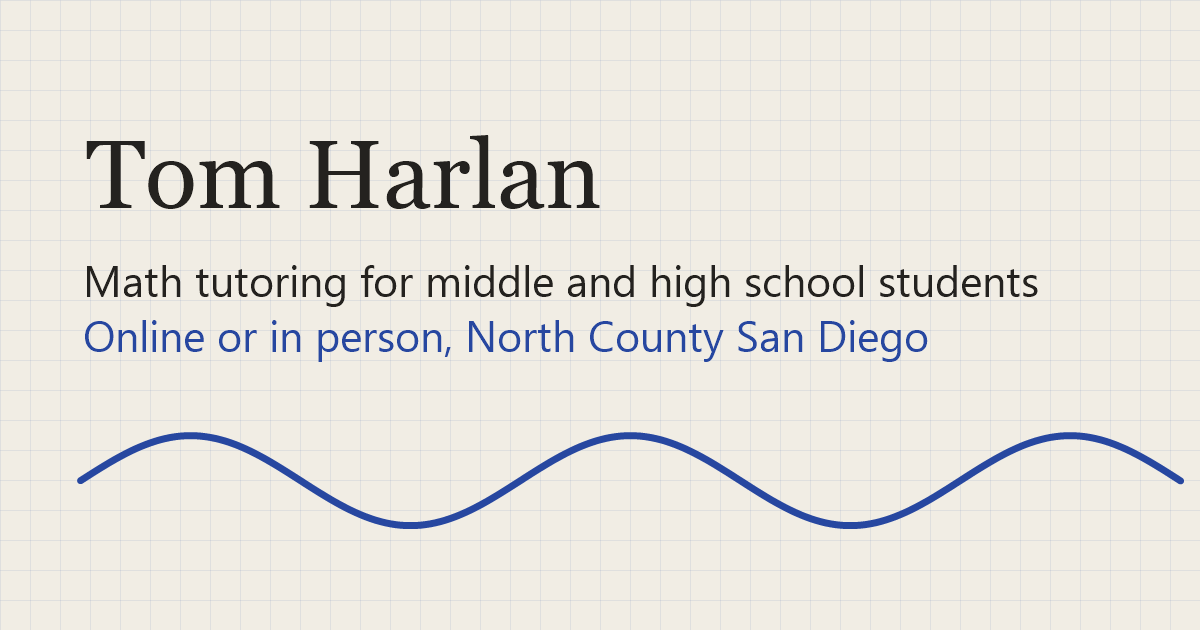
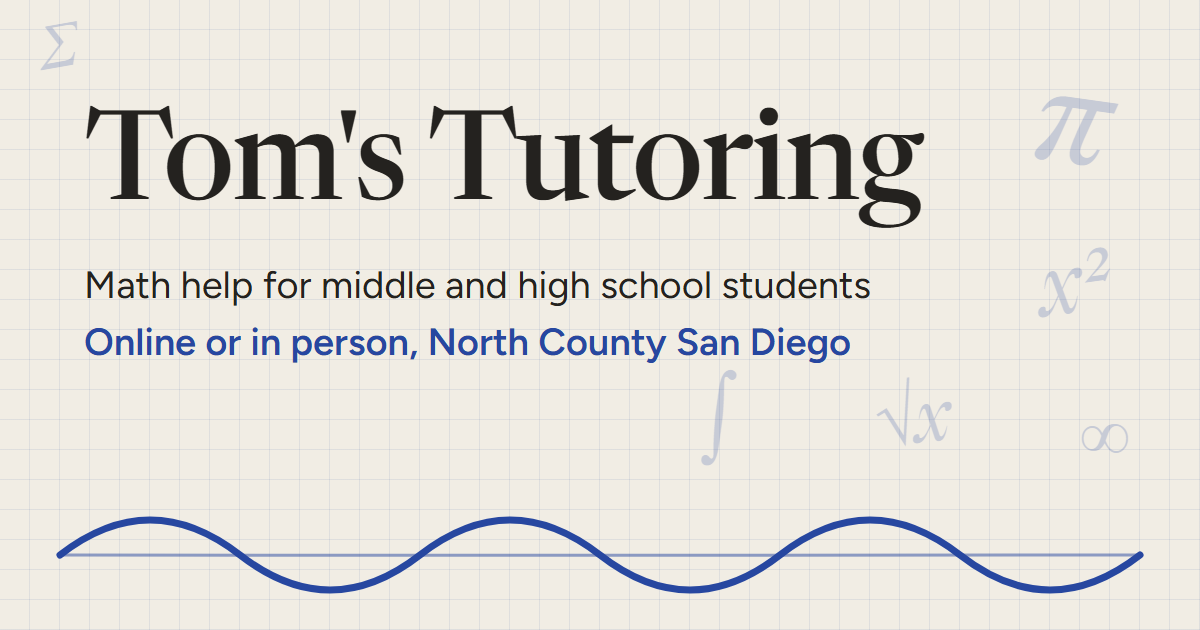
New link preview image and share titles for Tom's Tutoring

diff --git a/index.html b/index.html
@@ -8,19 +8,23 @@
   <meta name="booking-url" content="https://calendly.com/PLACEHOLDER">
 
   <!-- EDIT: page title and description (shown in search results and link previews) -->
-  <title>Tom Harlan, Math Tutor</title>
+  <title>Tom's Tutoring, Math Tutoring in North County San Diego</title>
   <meta name="description" content="One-on-one math tutoring for middle and high school students, online or in person in North County San Diego. Pre-Algebra through Calculus, plus SAT and ACT math.">
 
   <!-- Link previews (iMessage, Facebook, Slack, etc.) -->
   <!-- EDIT: og:url should be the live site address once it is published -->
   <meta property="og:type" content="website">
-  <meta property="og:title" content="Tom Harlan, Math Tutor">
-  <meta property="og:description" content="One-on-one math tutoring for middle and high school students, online or in person.">
+  <meta property="og:site_name" content="Tom's Tutoring">
+  <meta property="og:image:width" content="1200">
+  <meta property="og:image:height" content="630">
+  <meta property="og:image:alt" content="Tom's Tutoring: math help for middle and high school students in North County San Diego">
+  <meta property="og:title" content="Tom's Tutoring, Math Tutoring in North County San Diego">
+  <meta property="og:description" content="One-on-one math help for middle and high school students, online or in person. Pre-Algebra through Calculus, plus SAT and ACT.">
   <meta property="og:image" content="https://rsm-aburda.github.io/toms_tutoring/assets/og-image.png">
   <meta property="og:url" content="https://rsm-aburda.github.io/toms_tutoring/">
   <meta name="twitter:card" content="summary_large_image">
-  <meta name="twitter:title" content="Tom Harlan, Math Tutor">
-  <meta name="twitter:description" content="One-on-one math tutoring for middle and high school students, online or in person.">
+  <meta name="twitter:title" content="Tom's Tutoring, Math Tutoring in North County San Diego">
+  <meta name="twitter:description" content="One-on-one math help for middle and high school students, online or in person. Pre-Algebra through Calculus, plus SAT and ACT.">
   <meta name="twitter:image" content="https://rsm-aburda.github.io/toms_tutoring/assets/og-image.png">
 
   <link rel="icon" href="assets/favicon.svg" type="image/svg+xml">
